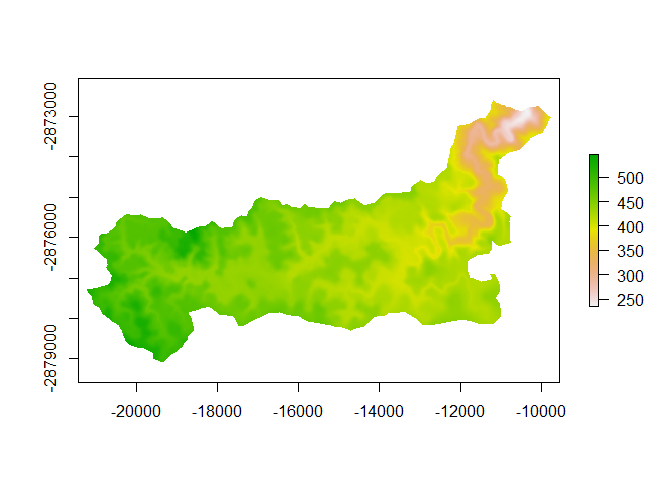
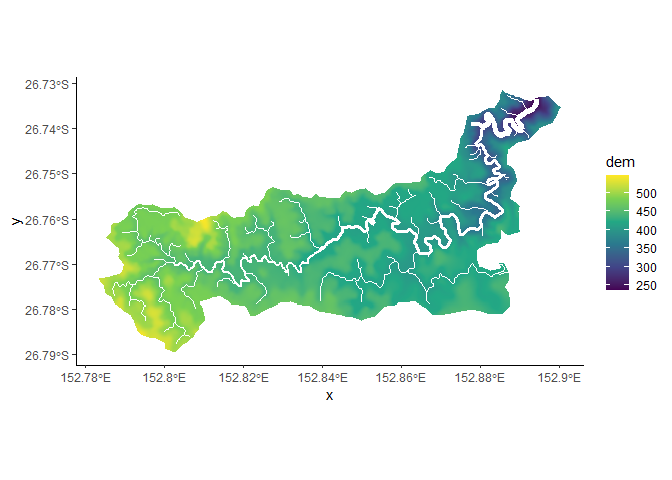
slightly less ugly maps

diff --git a/README.md b/README.md
@@ -107,7 +107,16 @@ ggplot() +
 Digital elevation models (dem.tif) layer.
 
 ``` r
-plot(dem)
+ggplot() +
+  geom_tile(data = as.data.frame(rasterToPoints(dem)), 
+            aes(x=x,y=y,fill=dem)) +
+  layer_spatial(streams, 
+                aes(size = AreaAFV), 
+                colour = "white") +
+  scale_fill_viridis_c() +
+  coord_sf() + 
+  scale_size(range = c(0, 2), guide = FALSE) +
+  theme_classic()
 ```
 
 ![](README_files/figure-gfm/unnamed-chunk-4-1.png)<!-- -->
@@ -116,13 +125,16 @@ Catchments/watersheds (catchment.shp). We love ugly colour palettes.
 
 ``` r
 ggplot() +
-  layer_spatial(catchment, fill = "aquamarine", colour = "coral", size = 1.5) +
+   geom_tile(data = as.data.frame(rasterToPoints(dem)), 
+            aes(x=x,y=y,fill=dem)) +
   layer_spatial(streams, 
                 aes(size = AreaAFV), 
-                colour = "navy") +
+                colour = "white") +
+  layer_spatial(catchment, fill = NA, colour = "hotpink") +
   layer_spatial(sites, colour = "hotpink")+
   coord_sf() + 
   scale_size(range = c(0, 2), guide = FALSE) +
+  scale_fill_viridis_c() +
   theme_classic()
 ```
 
